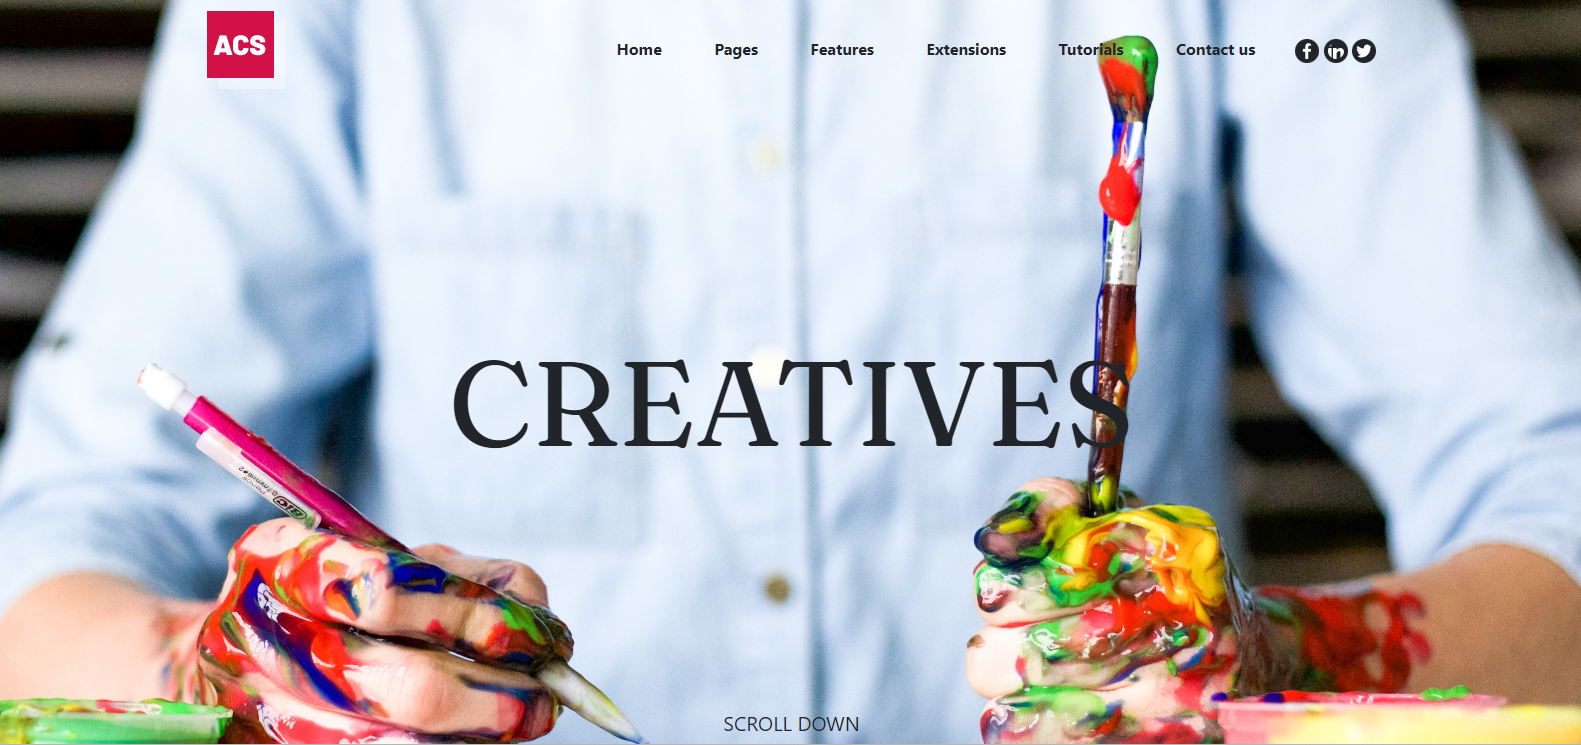
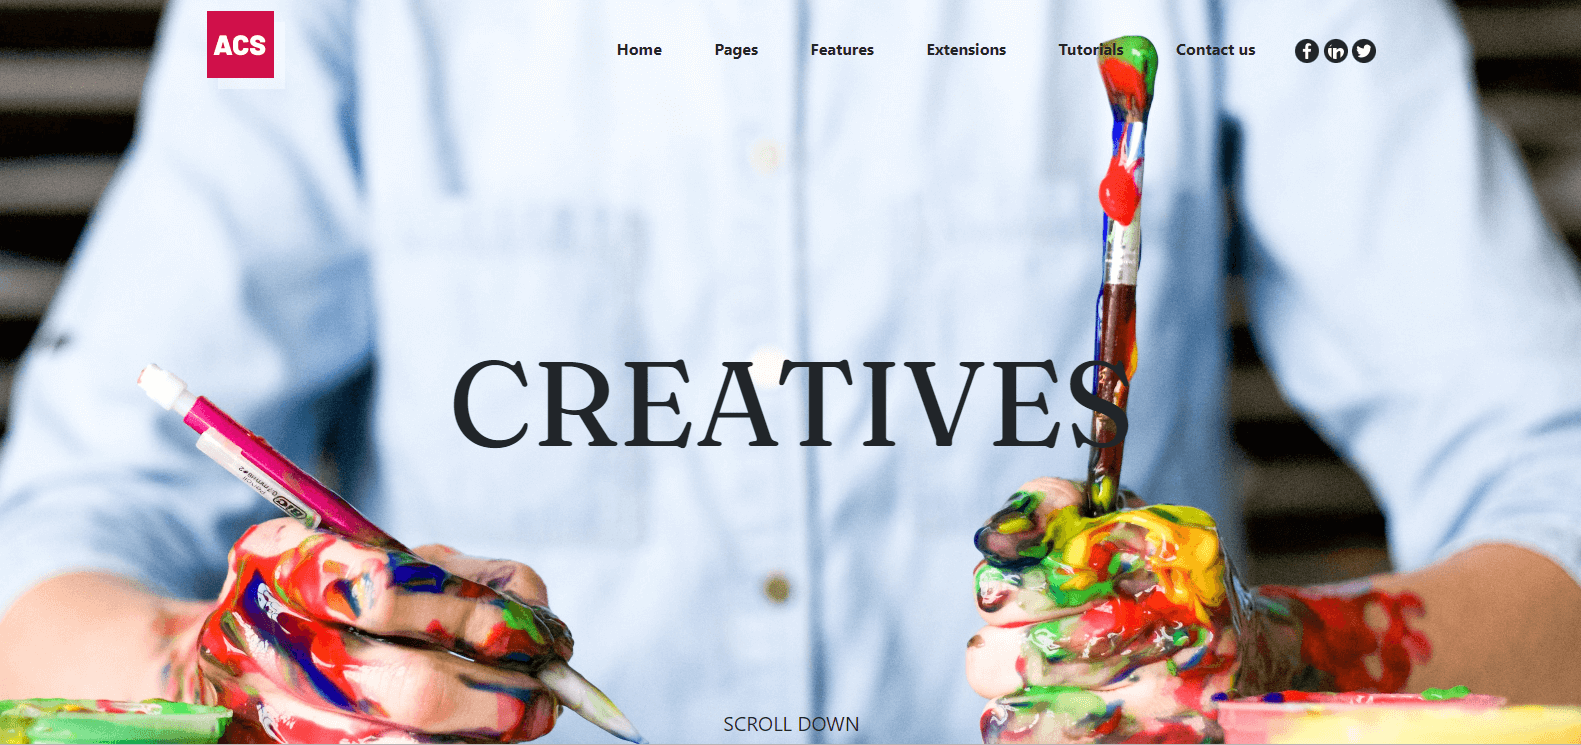
Ajout liens GitHub et images moins lourdes

diff --git a/index.html b/index.html
@@ -80,29 +80,43 @@
                         <div class="box d-flex flex-column justify-content-center align-items-center">
                             <img src="images/integration1.png" alt="Screenshot intégration HTML/CSS">
                             <h3 class="text-center w-75 mb-5 mt-5">Intégration HTML/CSS</h3>
-                            <a class="mb-5" href="projets/01 - INITIATION INTEGRATION/index.html"
-                                target="blank">Découvrir</a>
+                            <div class="mb-5">
+                                <a href="projets/01 - INITIATION INTEGRATION/index.html" target="blank">Découvrir</a>
+                                <a class="github" href="https://github.com/Zehada/Integration-HTML-CSS"
+                                    target="blank">GitHub</a>
+                            </div>
                         </div>
                     </div>
                     <div class="carousel-item">
                         <div class="box d-flex flex-column justify-content-center align-items-center">
                             <img src="images/integration2.png" alt="Screenshot intégration avec SASS">
                             <h3 class="text-center w-75 mb-5 mt-5">Intégration avec SASS</h3>
-                            <a class="mb-5" href="projets/integration-sass/index.html" target="blank">Découvrir</a>
+                            <div class="mb-5">
+                                <a href="projets/integration-sass/index.html" target="blank">Découvrir</a>
+                                <a class="github" href="https://github.com/Zehada/Integration-SASS"
+                                    target="blank">GitHub</a>
+                            </div>
                         </div>
                     </div>
                     <div class="carousel-item">
                         <div class="box d-flex flex-column justify-content-center align-items-center">
                             <img src="images/integration3.png" alt="Screenshot intégration avec Bootstrap">
                             <h3 class="text-center w-75 mb-5 mt-5">Intégration avec Bootstrap</h3>
-                            <a class="mb-5" href="projets/integration-bootstrap/index.html" target="blank">Découvrir</a>
+                            <div class="mb-5">
+                                <a href="projets/integration-bootstrap/index.html" target="blank">Découvrir</a>
+                                <a class="github" href="https://github.com/Zehada/Integration-Bootstrap"
+                                    target="blank">GitHub</a>
+                            </div>
                         </div>
                     </div>
                     <div class="carousel-item">
                         <div class="box d-flex flex-column justify-content-center align-items-center">
                             <img src="images/integration4.png" alt="Screenshot memory game">
                             <h3 class="text-center w-75 mb-5 mt-5">Jeu de mémoire avec Javascript</h3>
-                            <a class="mb-5" href="projets/projet-jeu/index.html" target="blank">Découvrir</a>
+                            <div class="mb-5">
+                                <a href="projets/projet-jeu/index.html" target="blank">Découvrir</a>
+                                <a class="github" href="https://github.com/Zehada/Memory-game" target="blank">GitHub</a>
+                            </div>
                         </div>
                     </div>
                 </div>

diff --git a/style.scss b/style.scss
@@ -239,6 +239,17 @@ h1 {
         }
     }
 
+    .github {
+        color: black;
+        background-color: #ffc107;
+
+        &:hover {
+            background-color: transparent;
+            color: white;
+        }
+
+    }
+
     h3 {
         font-size: 1.2rem;
     }

diff --git a/style.css b/style.css
@@ -181,6 +181,14 @@ h1 {
   background-color: #ffc107;
   color: black;
 }
+#projets .github {
+  color: black;
+  background-color: #ffc107;
+}
+#projets .github:hover {
+  background-color: transparent;
+  color: white;
+}
 #projets h3 {
   font-size: 1.2rem;
 }
